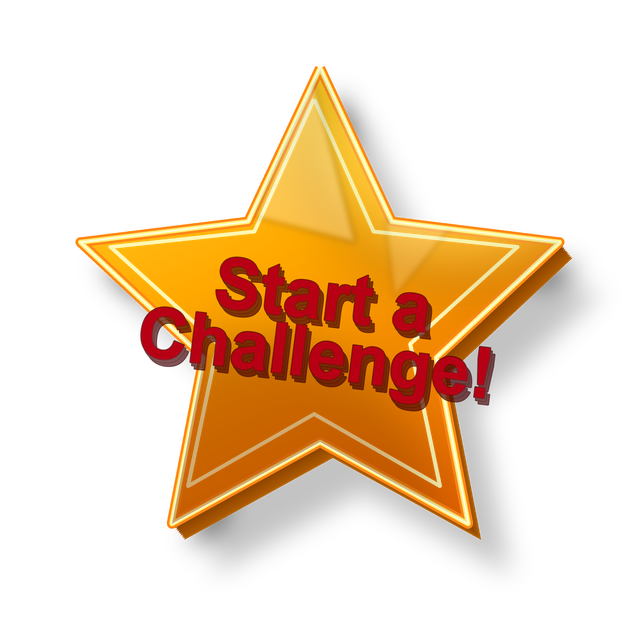
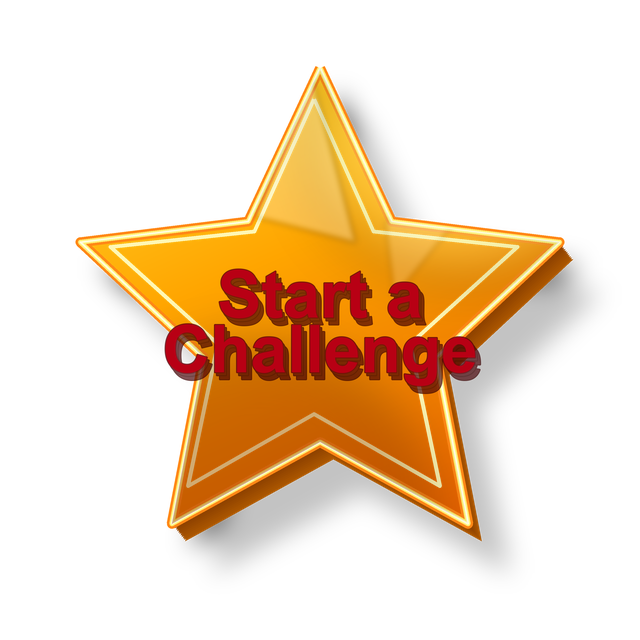
Polish battle pool CTA star

diff --git a/src/app/globals.css b/src/app/globals.css
@@ -329,9 +329,50 @@ a {
   width: 7.85rem;
   height: 7.85rem;
   transform: translate(-50%, -50%);
+  cursor: pointer;
+  isolation: isolate;
   filter:
     drop-shadow(0 14px 18px rgba(0, 0, 0, 0.5))
     drop-shadow(0 0 14px rgba(255, 146, 0, 0.32));
+}
+
+.battle-stage-star-cta::before,
+.battle-pool-star-cta::before {
+  content: "";
+  position: absolute;
+  inset: 17%;
+  z-index: -1;
+  border: 1px solid rgba(255, 226, 129, 0.48);
+  border-radius: 999px;
+  background:
+    radial-gradient(circle, rgba(255, 166, 0, 0.32), rgba(255, 56, 35, 0.15) 48%, rgba(0, 0, 0, 0.52) 72%);
+  box-shadow:
+    0 0 0 0.28rem rgba(255, 128, 0, 0.08),
+    0 0 34px rgba(255, 120, 0, 0.34),
+    inset 0 0 20px rgba(255, 255, 255, 0.08);
+}
+
+.battle-stage-star-cta::after,
+.battle-pool-star-cta::after {
+  content: "›";
+  position: absolute;
+  right: 15%;
+  bottom: 17%;
+  z-index: 2;
+  display: grid;
+  width: 1.65rem;
+  height: 1.65rem;
+  place-items: center;
+  border: 1px solid rgba(255, 232, 177, 0.74);
+  border-radius: 999px;
+  background: linear-gradient(135deg, #ff3d2e, #b80013);
+  color: white;
+  font-size: 1.35rem;
+  font-weight: 950;
+  line-height: 1;
+  box-shadow:
+    0 8px 16px rgba(0, 0, 0, 0.42),
+    0 0 18px rgba(255, 56, 35, 0.5);
 }
 
 .battle-stage-star-cta:focus-visible,
@@ -502,7 +543,7 @@ a {
     z-index: 5;
     display: grid;
     width: min(38rem, 52vw);
-    grid-template-columns: auto 1fr auto;
+    grid-template-columns: auto 1fr;
     align-items: center;
     gap: 0.85rem;
     margin-top: 1.45rem;
@@ -532,15 +573,6 @@ a {
       repeating-linear-gradient(90deg, rgba(255, 92, 61, 0.85) 0 3px, transparent 3px 12px);
     mask-image: linear-gradient(to top, black 40%, transparent 96%);
     opacity: 0.78;
-  }
-
-  .battle-stage-mix-meta {
-    text-align: right;
-    color: #ffddd6;
-    font-size: 0.74rem;
-    font-weight: 950;
-    letter-spacing: 0.08em;
-    line-height: 1.4;
   }
 
   .battle-stage-deck {
@@ -615,7 +647,7 @@ a {
 
   .battle-stage-vs {
     position: absolute;
-    left: 69%;
+    left: 72.5%;
     top: 39%;
     display: block;
     transform: translate(-50%, -50%) rotate(-4deg);
@@ -664,9 +696,15 @@ a {
     width: 14.4rem;
     height: 14.4rem;
     transform: translateY(-50%);
+    cursor: pointer;
+    isolation: isolate;
     filter:
       drop-shadow(0 18px 20px rgba(0, 0, 0, 0.48))
       drop-shadow(0 0 18px rgba(255, 171, 20, 0.28));
+  }
+
+  .battle-pool-star-cta:hover {
+    transform: translateY(-50%) scale(1.035);
   }
 }
 

diff --git a/src/app/battle/page.tsx b/src/app/battle/page.tsx
@@ -190,7 +190,7 @@ function BattleStageHero({
   lang: ReturnType<typeof useI18n>["lang"];
   t: ReturnType<typeof useI18n>["t"];
 }) {
-  const startLabel = isZh ? "發起挑戰！" : "Start a Challenge!";
+  const startLabel = isZh ? "發起挑戰" : "Start a Challenge";
   const startHref = `/battle/setup?lang=${lang}`;
   const starAsset = isZh ? BATTLE_STAR_ASSET_ZH : BATTLE_STAR_ASSET_EN;
 
@@ -242,11 +242,6 @@ function BattleStageHero({
         <div className="battle-stage-audio-strip" aria-hidden="true">
           <span className="battle-stage-play-dot">▶</span>
           <span className="battle-stage-waveform" />
-          <span className="battle-stage-mix-meta">
-            DROP CUT
-            <br />
-            00:05 PREVIEW
-          </span>
         </div>
       </div>
 
@@ -1006,7 +1001,7 @@ function DailyBattleList() {
 function BattlePoolList() {
   const { t, lang } = useI18n();
   const isZh = lang === "zh";
-  const startChallengeLabel = isZh ? "發起挑戰！" : "Start a Challenge!";
+  const startChallengeLabel = isZh ? "發起挑戰" : "Start a Challenge";
   const startChallengeHref = `/battle/setup?lang=${lang}`;
   const starAsset = isZh ? BATTLE_STAR_ASSET_ZH : BATTLE_STAR_ASSET_EN;
   const searchParams = useSearchParams();

diff --git a/docs/aipoger-battle-pool-art-direction.md b/docs/aipoger-battle-pool-art-direction.md
@@ -38,17 +38,19 @@ The star CTA is a real button, not just decoration.
 
 Chinese:
 
-- `發起挑戰！`
+- `發起挑戰`
 
 English:
 
-- `Start a Challenge!`
+- `Start a Challenge`
 
 Rules:
 
 - Do not use `我要挑戰` for this primary CTA.
 - Keep the button accessible: the actual button text and `aria-label` must match the locale.
 - The star graphic can carry the visible text, but the underlying button must still have real text for accessibility and future interaction.
+- Keep the star text visually horizontal and centered; do not rotate the text inside the star.
+- The star must look clickable, with a button-like glow, ring, hover state, or arrow indicator.
 - On click, it should begin the same Battle start flow as the normal `Start a Challenge` action.
 
 ## Star CTA Visual
@@ -61,6 +63,7 @@ Approved direction:
 - Dimensional bevels and a soft drop shadow.
 - Red dimensional Chinese lettering.
 - No white outline around the CTA text.
+- CTA text should not look crooked or misaligned.
 - The star should look upright on mobile.
 
 Desktop:
@@ -94,11 +97,13 @@ Desktop character direction:
 - Male gatekeeper / street fighter character on the right.
 - Characters should be large enough to create battle energy, but must not make the nav cards unreadable.
 - The `VS` can remain on desktop because there is enough space.
+- The `VS` mark should sit between the two character centers, not over one character or the title.
 
 Music elements:
 
 - Desktop may use waveform, DJ deck, EQ meter, BPM / key / Drop duration, or mini-player accents.
 - These elements should sit behind or beside the core UI, not over the CTA or card text.
+- Do not show redundant `DROP CUT 00:05 PREVIEW` text in the hero; previews already exist on the Drop cards below.
 
 ## Mobile Hero
 
@@ -180,8 +185,8 @@ Battle Pool copy should be clear first, stylish second.
 
 Use:
 
-- `發起挑戰！`
-- `Start a Challenge!`
+- `發起挑戰`
+- `Start a Challenge`
 - `Drop Battle 公開挑戰池`
 - `官方 DROP 挑戰`
 - `挑戰這首 Drop`
